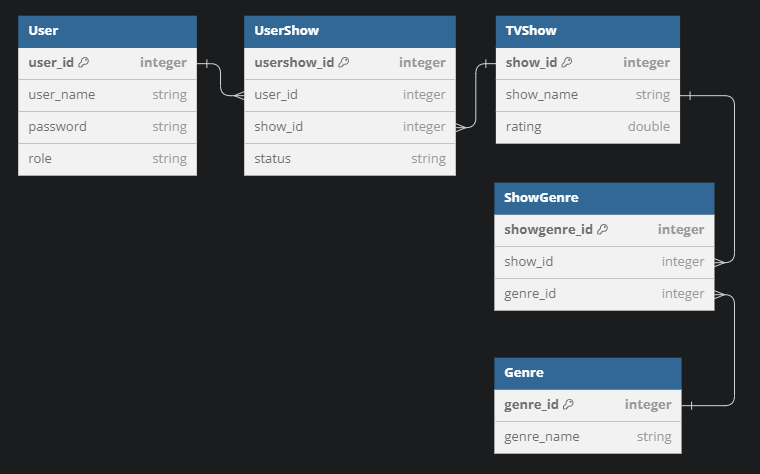
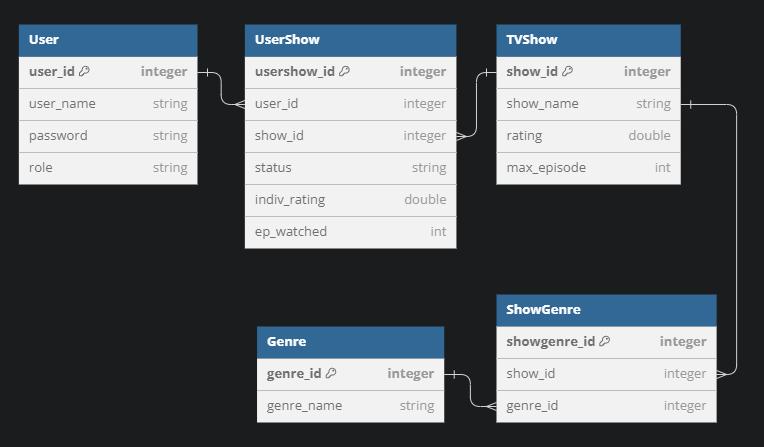
couple bug fixed

diff --git a/src/main/java/com/cognixia/jump/dao/UserDaoImpl.java b/src/main/java/com/cognixia/jump/dao/UserDaoImpl.java
@@ -184,7 +184,7 @@ public class UserDaoImpl implements UserDao {
 		try (PreparedStatement preparedStatement = connection.prepareStatement(query, Statement.RETURN_GENERATED_KEYS)) {
 			preparedStatement.setString(1, tvShow.getShow_name());
 			preparedStatement.setDouble(2, tvShow.getRating());
-			preparedStatement.setInt(2, tvShow.getMax_episode());
+			preparedStatement.setInt(3, tvShow.getMax_episode());
 			int affectedRows = preparedStatement.executeUpdate();
 			if (affectedRows == 1) {
 				try (ResultSet generatedKeys = preparedStatement.getGeneratedKeys()) {
@@ -293,23 +293,25 @@ public class UserDaoImpl implements UserDao {
 	}
 	
 	@Override
-	public List<TVShow> getShowByName(String name) throws NullPointerException {
+	public List<UserShow> getShowByName(String name) throws NullPointerException {
 		
-		List<TVShow> showByName = new ArrayList<>();
+		List<UserShow> showByName = new ArrayList<>();
 		
-		try ( PreparedStatement pstmt = connection.prepareStatement("select * from TVShow where show_name = ?")) {
+		try ( PreparedStatement pstmt = connection.prepareStatement("select * from UserShow where show_id = ?")) {
 			
 			pstmt.setString(1, name);
 			ResultSet rs = pstmt.executeQuery();
 			
 			while(rs.next()) {
 				
-				int show_id = rs.getInt("show_id");
-				String show_name = rs.getString("show_name");
-				double rating = rs.getDouble("rating");
-				int max_episode = rs.getInt("max_episode");
+				int show_id = rs.getInt("usershow_id");
+				int uid = rs.getInt("user");
+				int sid = rs.getInt("show");
+				String status = rs.getString("status");
+				double rating = rs.getDouble("indiv_rating");
+				int ep_watched = rs.getInt("ep_watched");
 				
-				TVShow foundShow = new TVShow(show_id, show_name, rating, max_episode);
+				UserShow foundShow = new UserShow(show_id, uid, sid, status, rating, ep_watched);
 				showByName.add(foundShow);
 				
 			}

diff --git a/src/main/java/com/cognixia/jump/pep2/Menu.java b/src/main/java/com/cognixia/jump/pep2/Menu.java
@@ -119,10 +119,10 @@ public class Menu {
 			// int input = sc.nextInt();
 			// sc.nextLine();
 	
-			System.out.println("What do you rate the show? (1-5)\n");
+			System.out.println("What do you rate the show? (1-5)");
 			double ratinginput = sc.nextDouble();
 			
-			System.out.println("How many episodes are there? \n");
+			System.out.println("How many episodes are there?");
 			int maxep = sc.nextInt();
 			
 			TVShow newShow = new TVShow(0, showInput, ratinginput, maxep);
@@ -186,15 +186,15 @@ public class Menu {
 		
 		System.out.println("Please enter the name of the TV show you wish to see the average rating for: ");
 		String show = sc.nextLine();
-		List<TVShow> showByName = udi.getShowByName(show);
+		List<UserShow> showByName = udi.getShowByName(show);
 		
 		int counter = 0;
 		double total = 0;
 		
-		for (TVShow eachShow: showByName) {
+		for (UserShow eachShow: showByName) {
 			
 			counter++;
-			total += eachShow.getRating();
+			total += eachShow.getIndiv_rating();
 			
 		}
 		

diff --git a/src/main/java/com/cognixia/jump/dao/UserDao.java b/src/main/java/com/cognixia/jump/dao/UserDao.java
@@ -23,7 +23,7 @@ public interface UserDao {
     TVShow addTVShow(TVShow tvShow);
     TVShow updateTVShow(TVShow tvShow);
     boolean deleteTVShow(int showId);
-    List<TVShow> getShowByName(String name);
+    List<UserShow> getShowByName(String name);
     
     // TVShow searchTVShow(String string);
     
